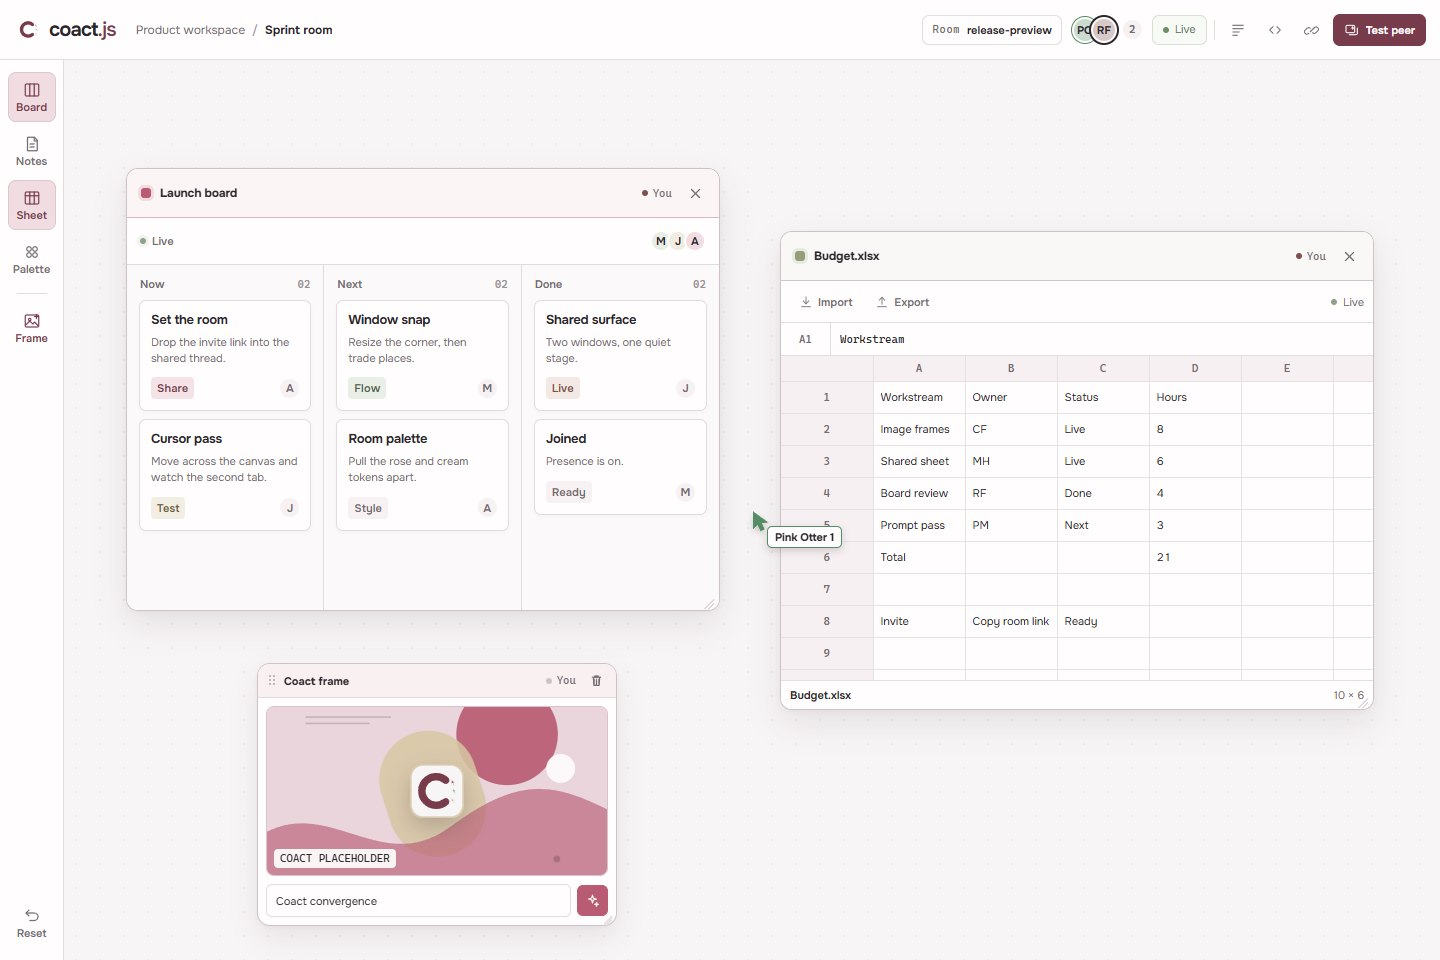
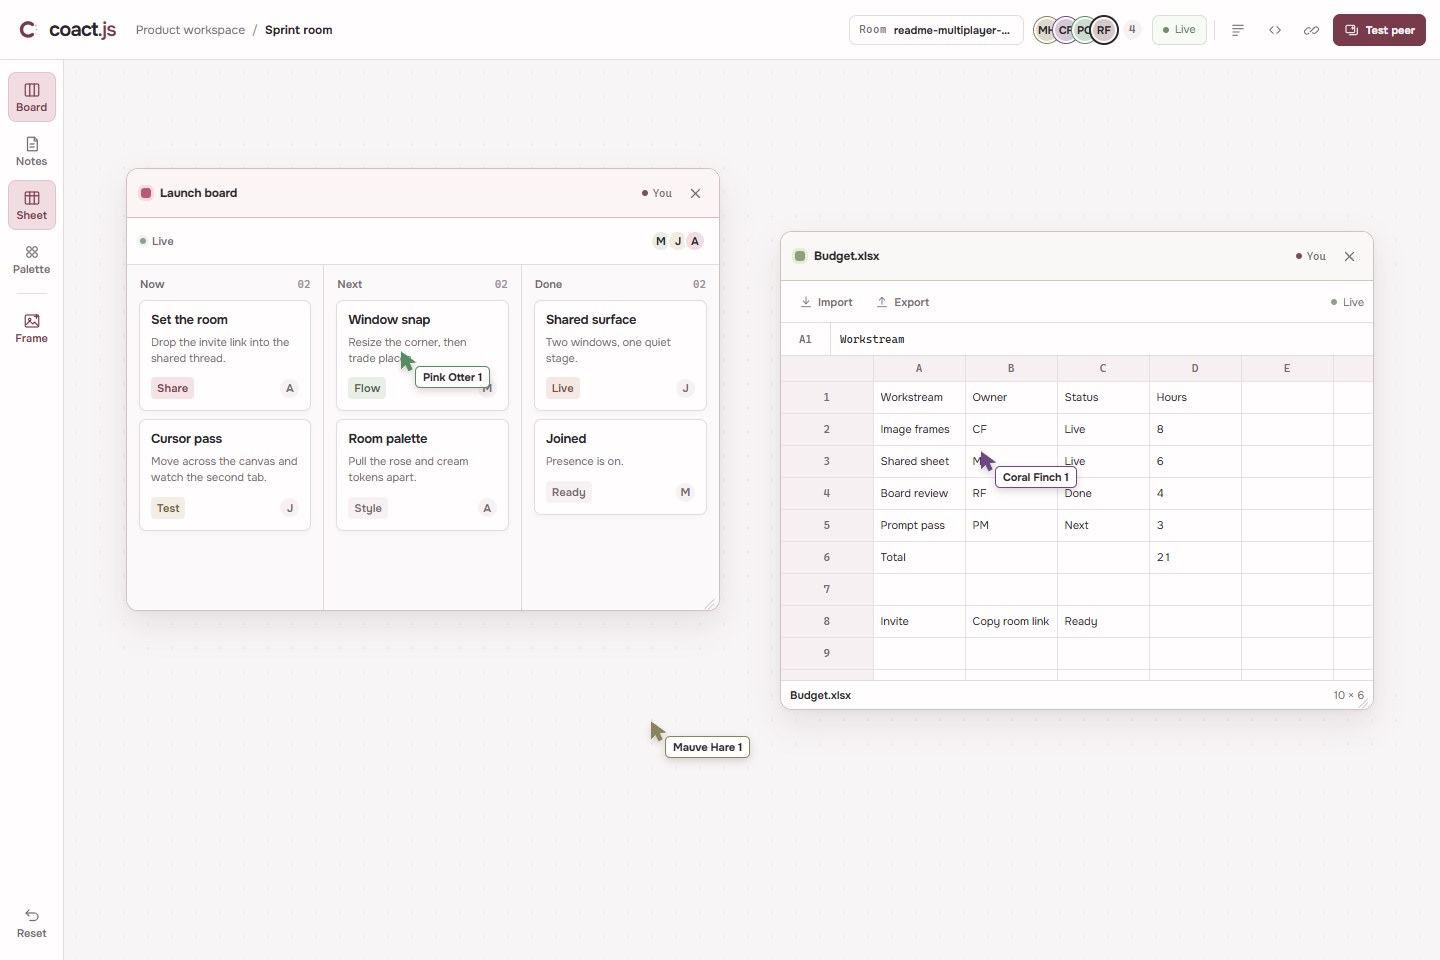
Show real multiplayer cursors and synchronized editing in README GIF

diff --git a/README.md b/README.md
@@ -9,7 +9,7 @@
   <a href="https://github.com/chiuwa/coactjs/blob/main/LICENSE"><img src="https://img.shields.io/badge/license-Apache--2.0-8fa18c" alt="Apache-2.0"></a>
 </p>
 
-![Coact.js workspace](https://raw.githubusercontent.com/chiuwa/coactjs/main/demo-screenshot.jpg)
+![Four people collaborating with shared cursors, windows and cells](https://raw.githubusercontent.com/chiuwa/coactjs/main/assets/demo.gif)
 
 Shared cursors, windows, image frames and spreadsheet cells. A browser-native JavaScript component with TypeScript declarations and an optional synchronization server.
 
